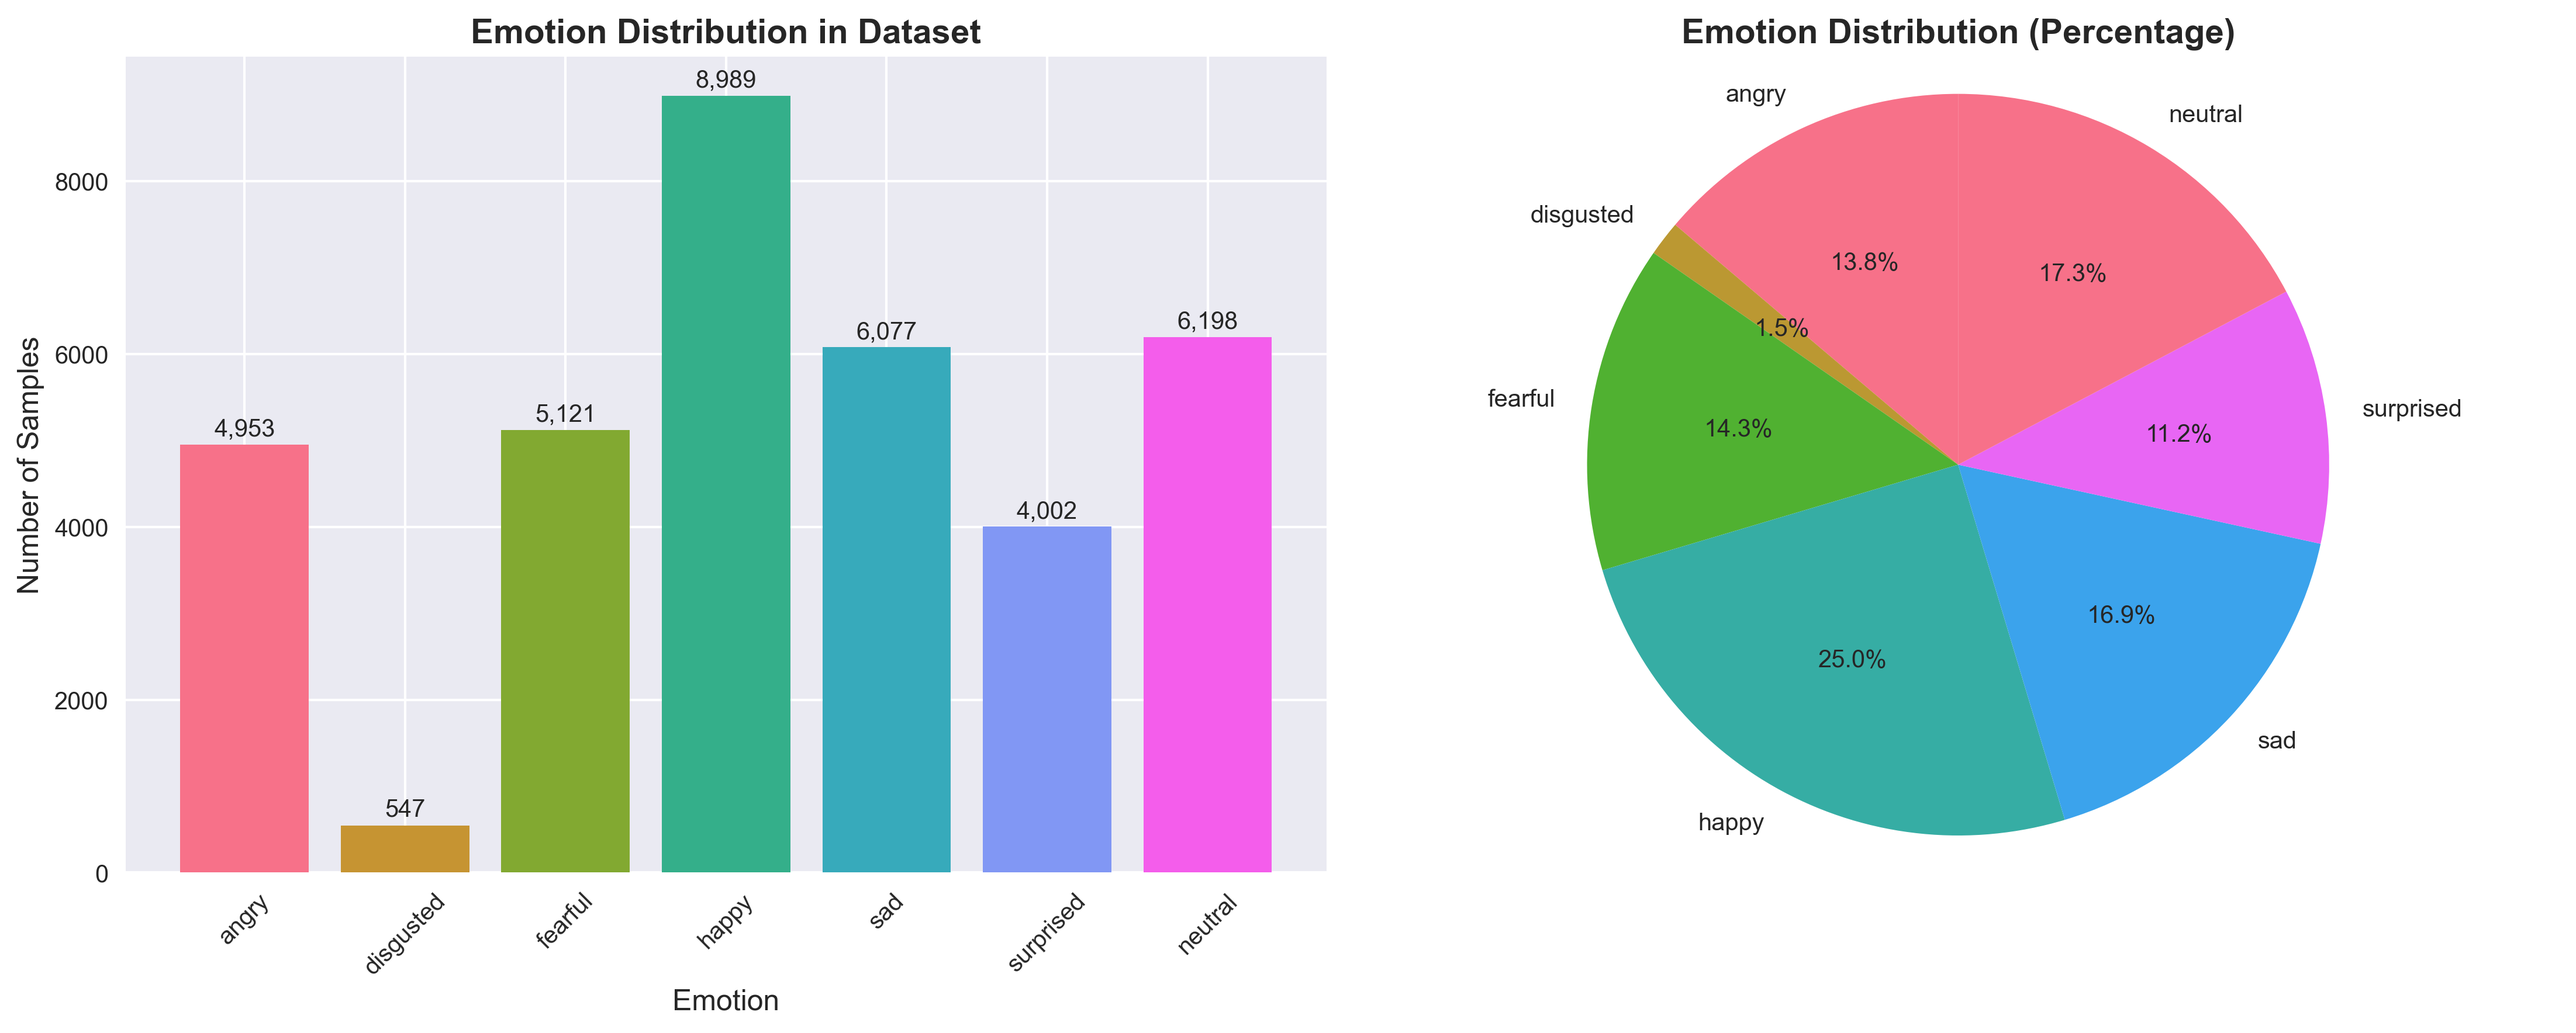
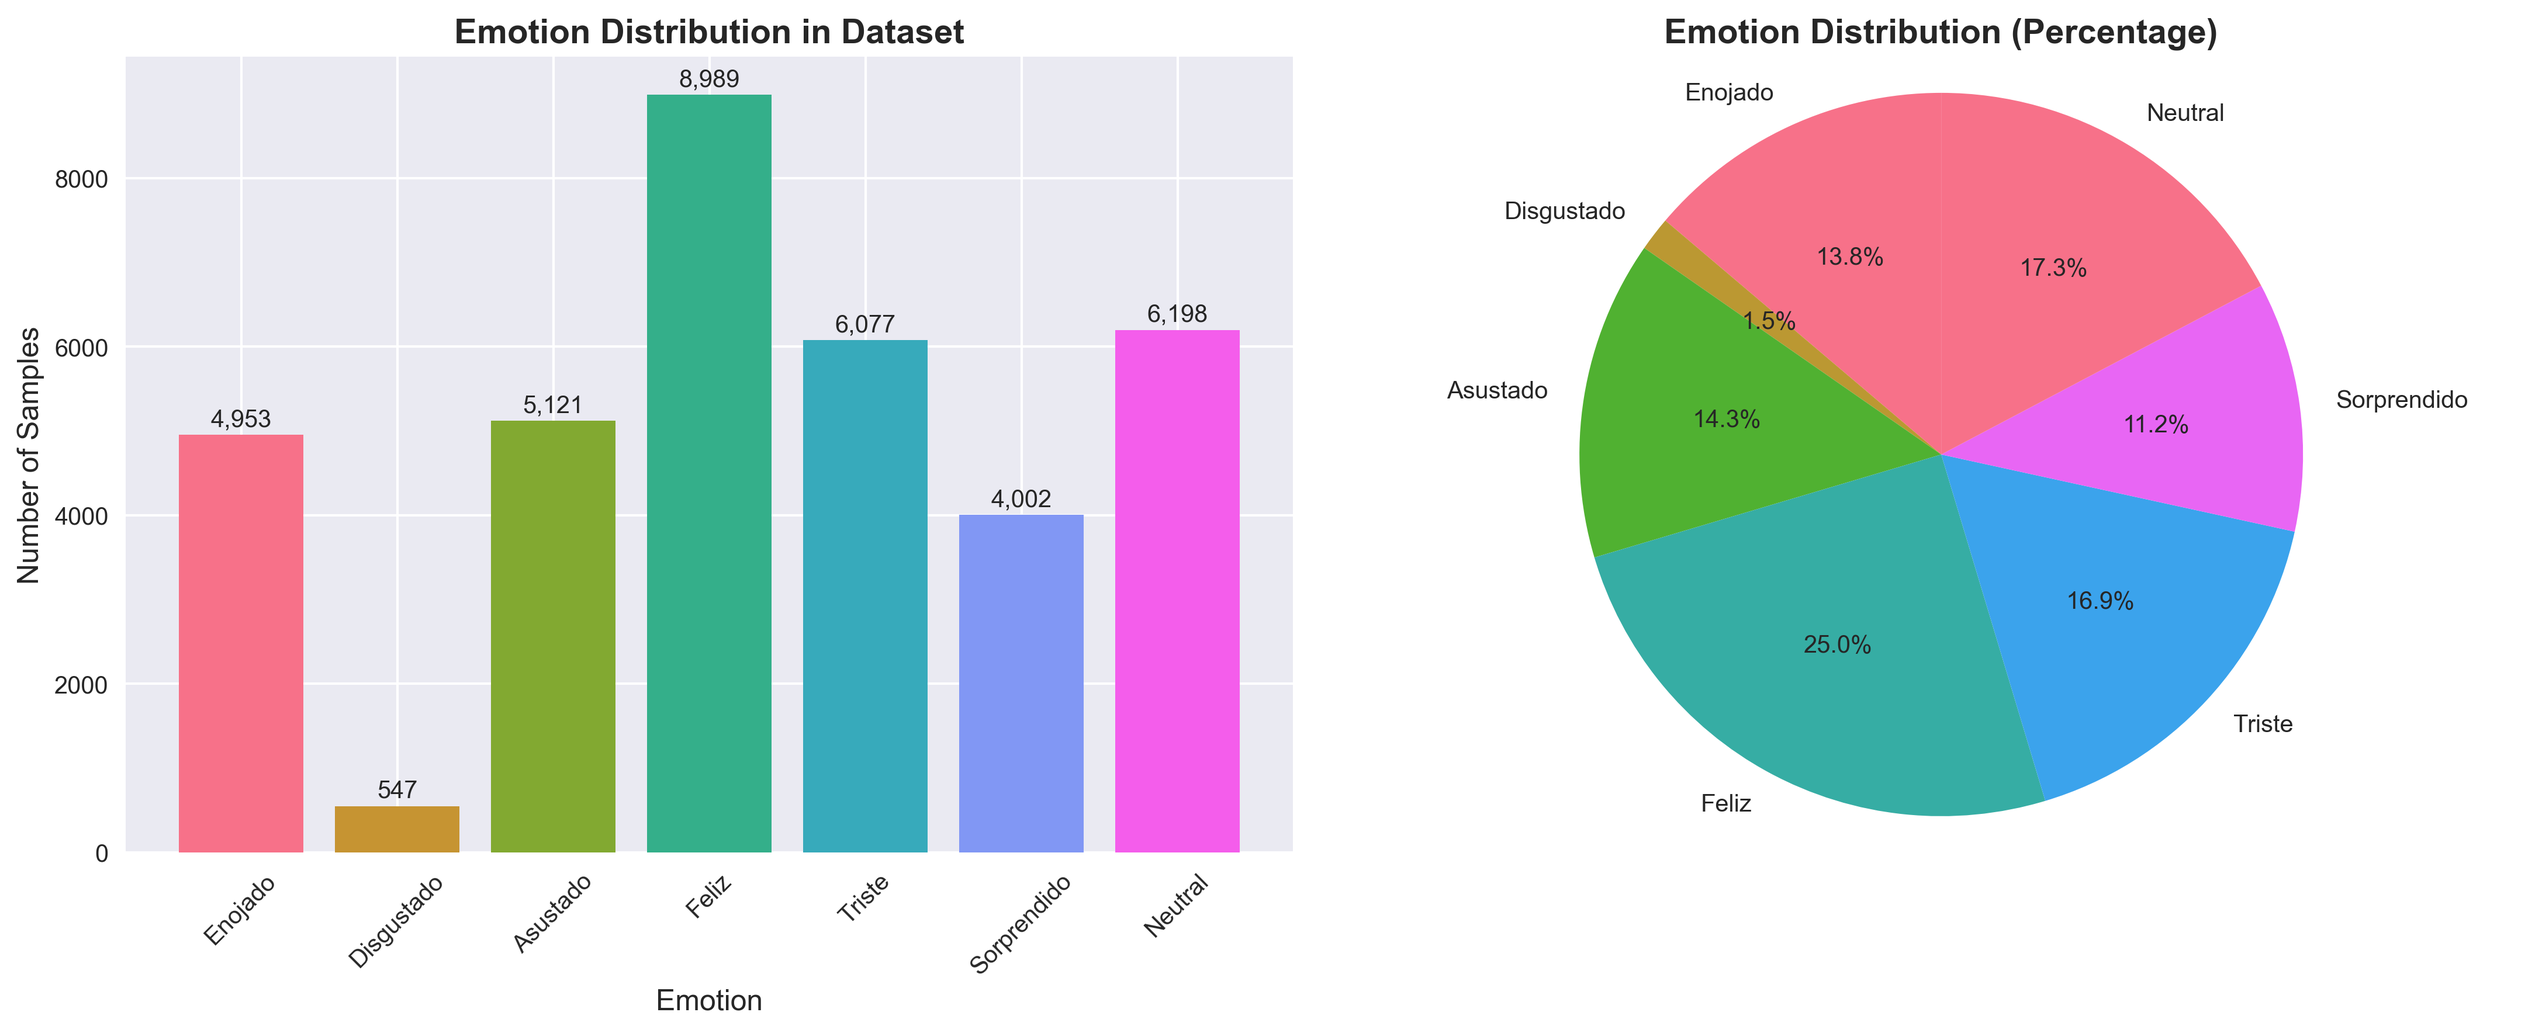
solucionando errores en el dataset de emociones

diff --git a/.history/src/emotion_data_20260114130207.py b/.history/src/emotion_data_20260114130207.py
@@ -65,57 +65,57 @@ class EmotionDataLoader:
                 print(f"Directorio no encontrado: {base_dir}")
                 continue
 
-            # Procesar cada directorio de emoción en este base_dir
-            for emotion_name, emotion_idx in emotion_map.items():
-                emotion_dir = os.path.join(base_dir, emotion_name)
-                if not os.path.exists(emotion_dir):
-                    print(f"Directorio no encontrado: {emotion_dir}")
-                    continue
+        # Procesar cada directorio de emoción
+        for emotion_name, emotion_idx in emotion_map.items():
+            emotion_dir = os.path.join(test_base_dir, emotion_name)
+            if not os.path.exists(emotion_dir):
+                print(f"Directorio no encontrado: {emotion_dir}")
+                continue
 
-                print(f"Procesando emoción {emotion_name} (índice {emotion_idx}) en {base_dir}...")
+            print(f"Procesando emoción {emotion_name} (índice {emotion_idx})...")
 
-                # Obtener lista de archivos de imagen
-                image_files = [f for f in os.listdir(emotion_dir)
-                              if f.lower().endswith(('.jpg', '.jpeg', '.png'))]
+            # Obtener lista de archivos de imagen
+            image_files = [f for f in os.listdir(emotion_dir)
+                          if f.lower().endswith(('.jpg', '.jpeg', '.png'))]
 
-                if len(image_files) == 0:
-                    print(f"No se encontraron imágenes en {emotion_dir}")
-                    continue
+            if len(image_files) == 0:
+                print(f"No se encontraron imágenes en {emotion_dir}")
+                continue
 
-                # Limitar imágenes por emoción si se especifica max_samples
-                if max_samples:
-                    max_per_emotion = max_samples // len(emotion_map)
-                    if len(image_files) > max_per_emotion:
-                        image_files = image_files[:max_per_emotion]
+            # Limitar imágenes por emoción si se especifica max_samples
+            if max_samples:
+                max_per_emotion = max_samples // len(emotion_map)
+                if len(image_files) > max_per_emotion:
+                    image_files = image_files[:max_per_emotion]
 
-                # Procesar cada imagen
-                for image_file in image_files:
-                    try:
-                        img_path = os.path.join(emotion_dir, image_file)
-                        image = cv2.imread(img_path)
+            # Procesar cada imagen
+            for image_file in image_files:
+                try:
+                    img_path = os.path.join(emotion_dir, image_file)
+                    image = cv2.imread(img_path)
 
-                        if image is None:
-                            continue
-
-                        # Convertir a escala de grises
-                        gray = cv2.cvtColor(image, cv2.COLOR_BGR2GRAY)
-
-                        # Redimensionar a 48x48
-                        processed = cv2.resize(gray, (48, 48), interpolation=cv2.INTER_CUBIC)
-
-                        # Normalizar
-                        processed = processed.astype('float32') / 255.0
-                        processed = np.expand_dims(processed, axis=-1)
-
-                        X.append(processed)
-                        labels.append(emotion_idx)
-
-                    except Exception as e:
-                        print(f"Error procesando {image_file}: {e}")
+                    if image is None:
                         continue
 
+                    # Convertir a escala de grises
+                    gray = cv2.cvtColor(image, cv2.COLOR_BGR2GRAY)
+
+                    # Redimensionar a 48x48
+                    processed = cv2.resize(gray, (48, 48), interpolation=cv2.INTER_CUBIC)
+
+                    # Normalizar
+                    processed = processed.astype('float32') / 255.0
+                    processed = np.expand_dims(processed, axis=-1)
+
+                    X.append(processed)
+                    labels.append(emotion_idx)
+
+                except Exception as e:
+                    print(f"Error procesando {image_file}: {e}")
+                    continue
+
         if len(X) == 0:
-            raise ValueError("❌ No se pudieron cargar imágenes reales de los directorios data/train/ y data/test/")
+            raise ValueError("❌ No se pudieron cargar imágenes reales del directorio data/test/")
 
         X = np.array(X)
         y = np.array(labels)

diff --git a/.history/train_emotion_model_20251217081538.py b/.history/train_emotion_model_20251217081538.py
@@ -15,20 +15,20 @@ def train_improved_emotion_model():
 
     # Crear modelo mejorado
     classifier = EmotionClassifier()
-    classifier.model = classifier.create_model(model_type='advanced')  # Usar arquitectura avanzada
+    classifier.model = classifier.create_model(model_type='basic')  # Usar arquitectura mejorada
     classifier.compile_model(learning_rate=1e-3)  # Learning rate más alto inicialmente
 
     # Calcular pesos de clase para datos desbalanceados
     class_weights = data_loader.get_class_weights()
     print(f"Pesos de clase: {class_weights}")
 
-    # Entrenar modelo con más epochs y mejor configuración
+    # Entrenar modelo
     history = classifier.train(
         X_train=data['X_train'],
         y_train=data['y_train'],
         X_val=data['X_val'],
         y_val=data['y_val'],
-        epochs=100,  # Más epochs
+        epochs=50,
         batch_size=64,
         class_weights=class_weights,
         save_path='models/emotion/emotion_model_improved.h5'

diff --git a/.history/src/emotion_data_20260114130217.py b/.history/src/emotion_data_20260114130217.py
@@ -115,7 +115,7 @@ class EmotionDataLoader:
                         continue
 
         if len(X) == 0:
-            raise ValueError("❌ No se pudieron cargar imágenes reales de los directorios data/train/ y data/test/")
+            raise ValueError("❌ No se pudieron cargar imágenes reales del directorio data/test/")
 
         X = np.array(X)
         y = np.array(labels)
